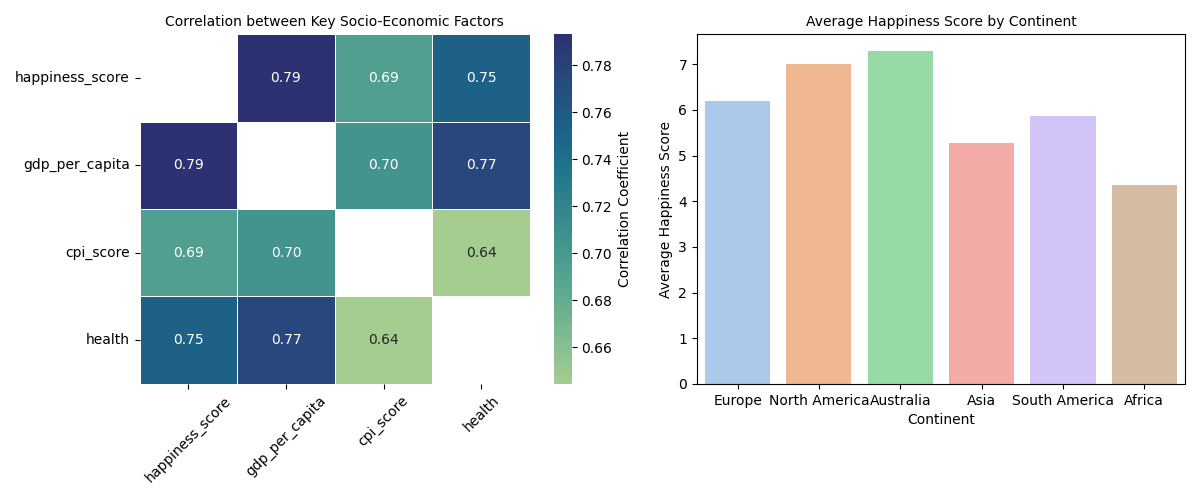
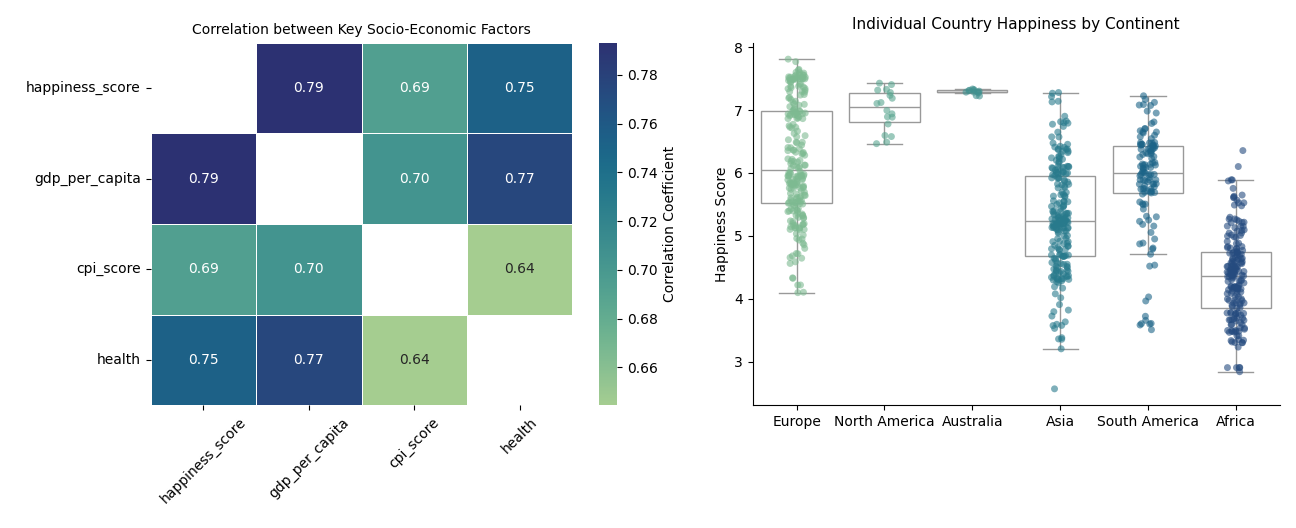
Update continent happiness plot to stripplot with boxplot
Replaced the barplot of average happiness score by continent with a stripplot overlaid on a boxplot to show individual country scores and distribution. Updated plot titles and labels for clarity, and refreshed the corresponding visualization image.

diff --git a/main.py b/main.py
@@ -49,18 +49,14 @@ sns.heatmap(
 axes[0].set_title("Correlation between Key Socio-Economic Factors", fontsize=10)
 axes[0].tick_params(axis='x', rotation=45)
 
-#Right plot Barplot
-sns.barplot(
-    data=df_world_happiness,
-    x='continent',
-    y='happiness_score',
-    ci=None,
-    palette='pastel',
-    ax=axes[1]
-)
-axes[1].set_title("Average Happiness Score by Continent", fontsize=10)
-axes[1].set_xlabel("Continent")
-axes[1].set_ylabel("Average Happiness Score")
+#Right plot Stripplot with Boxplot overlay
+sns.boxplot(data=df_world_happiness, x='continent', y='happiness_score', color='white', fliersize=0, ax=axes[1])
+sns.stripplot(data=df_world_happiness, x='continent', y='happiness_score', jitter=True, alpha=0.6, palette='crest', ax=axes[1])
+
+axes[1].set_title("Individual Country Happiness by Continent", fontsize=11, pad=10)
+axes[1].set_xlabel("")
+axes[1].set_ylabel("Happiness Score")
+sns.despine(ax=axes[1])
 
 plt.tight_layout()
 plt.show()
